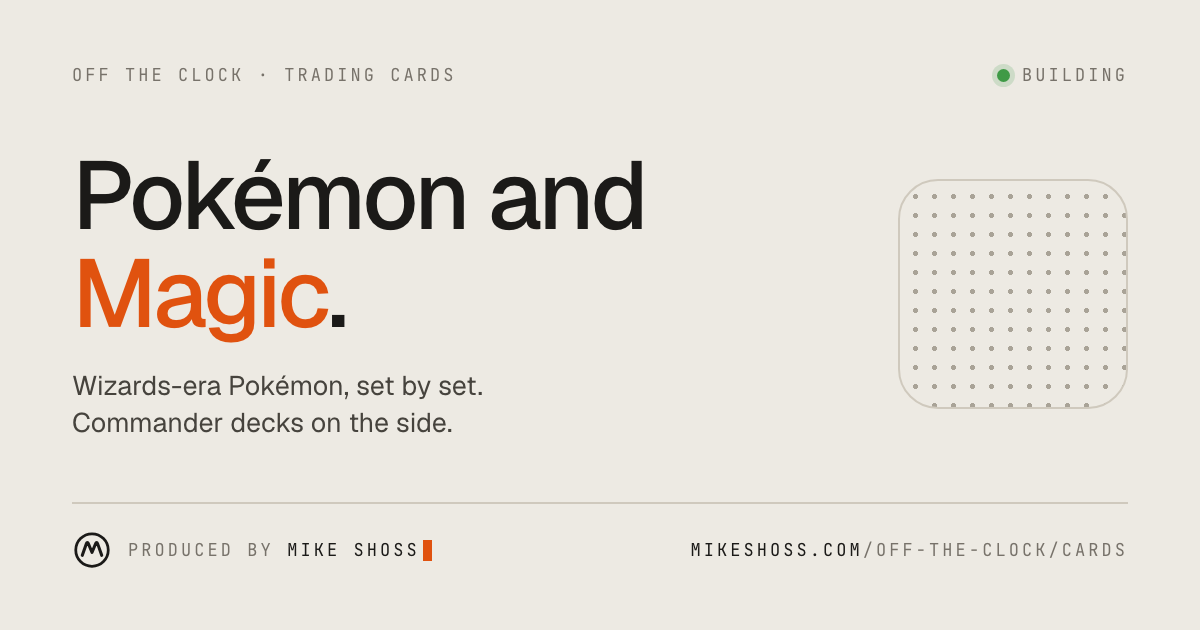
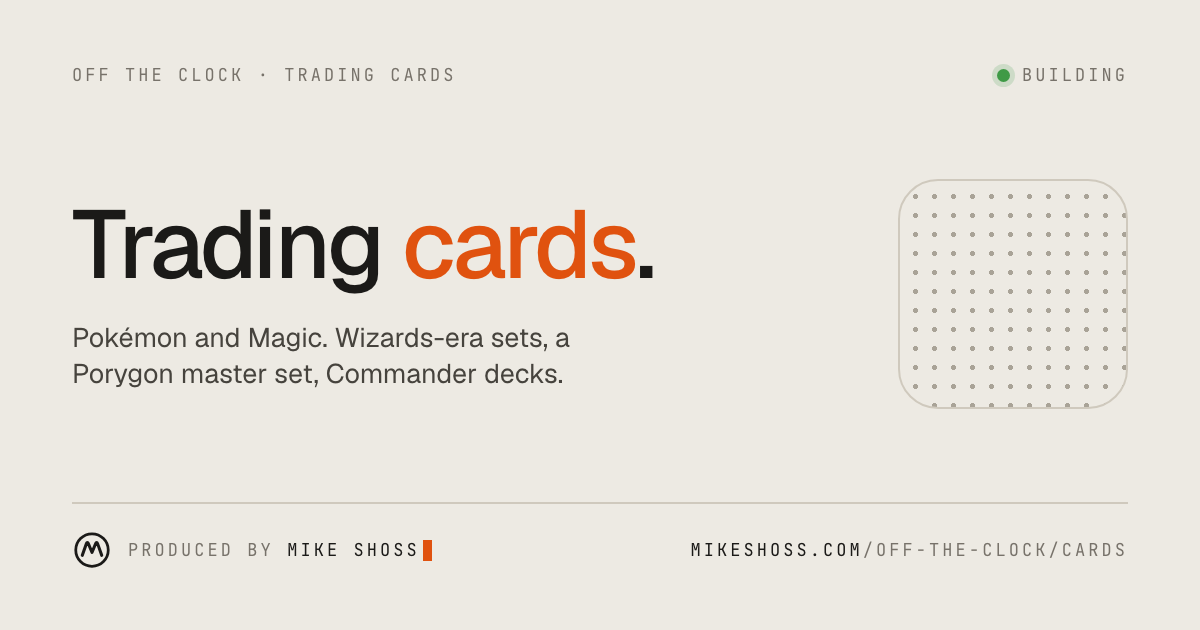
Cards page: 'Trading cards', with 'TCG · Pokémon and Magic: The Gathering' under the title
Claude-Session: https://claude.ai/code/session_01PXLdws1ZUYVP4QoPYJzYg7

Changed region(s): [[0.0617, 0.2413, 0.555, 0.6333], [0.0617, 0.6635, 0.37, 0.6937]]

diff --git a/src/data/content.ts b/src/data/content.ts
@@ -1440,6 +1440,8 @@ export interface Interest {
   summary: string;
   /** The word beside the green light on its page: what is happening now. */
   status: string;
+  /** A short line under the page title, for names that need one. */
+  aka?: string;
   keywords?: string[];
   /** Equipment that is running right now, shown as a panel of lights. */
   stations?: { name: string; role: string }[];
@@ -1476,7 +1478,8 @@ export const interests: Interest[] = [
   },
   {
     slug: "cards",
-    name: "Pokémon and Magic cards",
+    name: "Trading cards",
+    aka: "TCG · Pokémon and Magic: The Gathering",
     summary: "Vintage Pokémon, done properly: Wizards of the Coast-era sets, one card at a time, until the binder is full. And Commander decks, because building the deck is the fun part.",
     status: "Collecting",
     keywords: ["Wizards-era Pokémon", "Set completion", "Porygon master set", "Graded slabs", "Magic: The Gathering", "Commander"],

diff --git a/src/pages/palette.json.ts b/src/pages/palette.json.ts
@@ -61,7 +61,7 @@ const sections: Item[] = [
 ].map((s) => ({ ...s, g: "Sections" }) as Item);
 
 const ventures: Item[] = companies.map((c) => ({ t: c.name, h: c.role ?? "Venture", g: "Ventures", u: `/companies/${c.slug}/`, k: c.tagline }));
-const channels: Item[] = interests.map((i) => ({ t: i.name, h: i.status, g: "Off the clock", u: `/off-the-clock/${i.slug}/`, k: (i.keywords ?? []).join(" ") }));
+const channels: Item[] = interests.map((i) => ({ t: i.name, h: i.status, g: "Off the clock", u: `/off-the-clock/${i.slug}/`, k: [i.aka ?? "", ...(i.keywords ?? [])].join(" ") }));
 const terms: Item[] = glossary.map((t) => ({ t: t.term, h: "Glossary", g: "Glossary", u: `/glossary/${t.slug}/` }));
 const api: Item[] = [
   { t: "OpenAPI spec", h: "JSON", g: "API", u: "/api/openapi.json", k: "swagger postman" },
